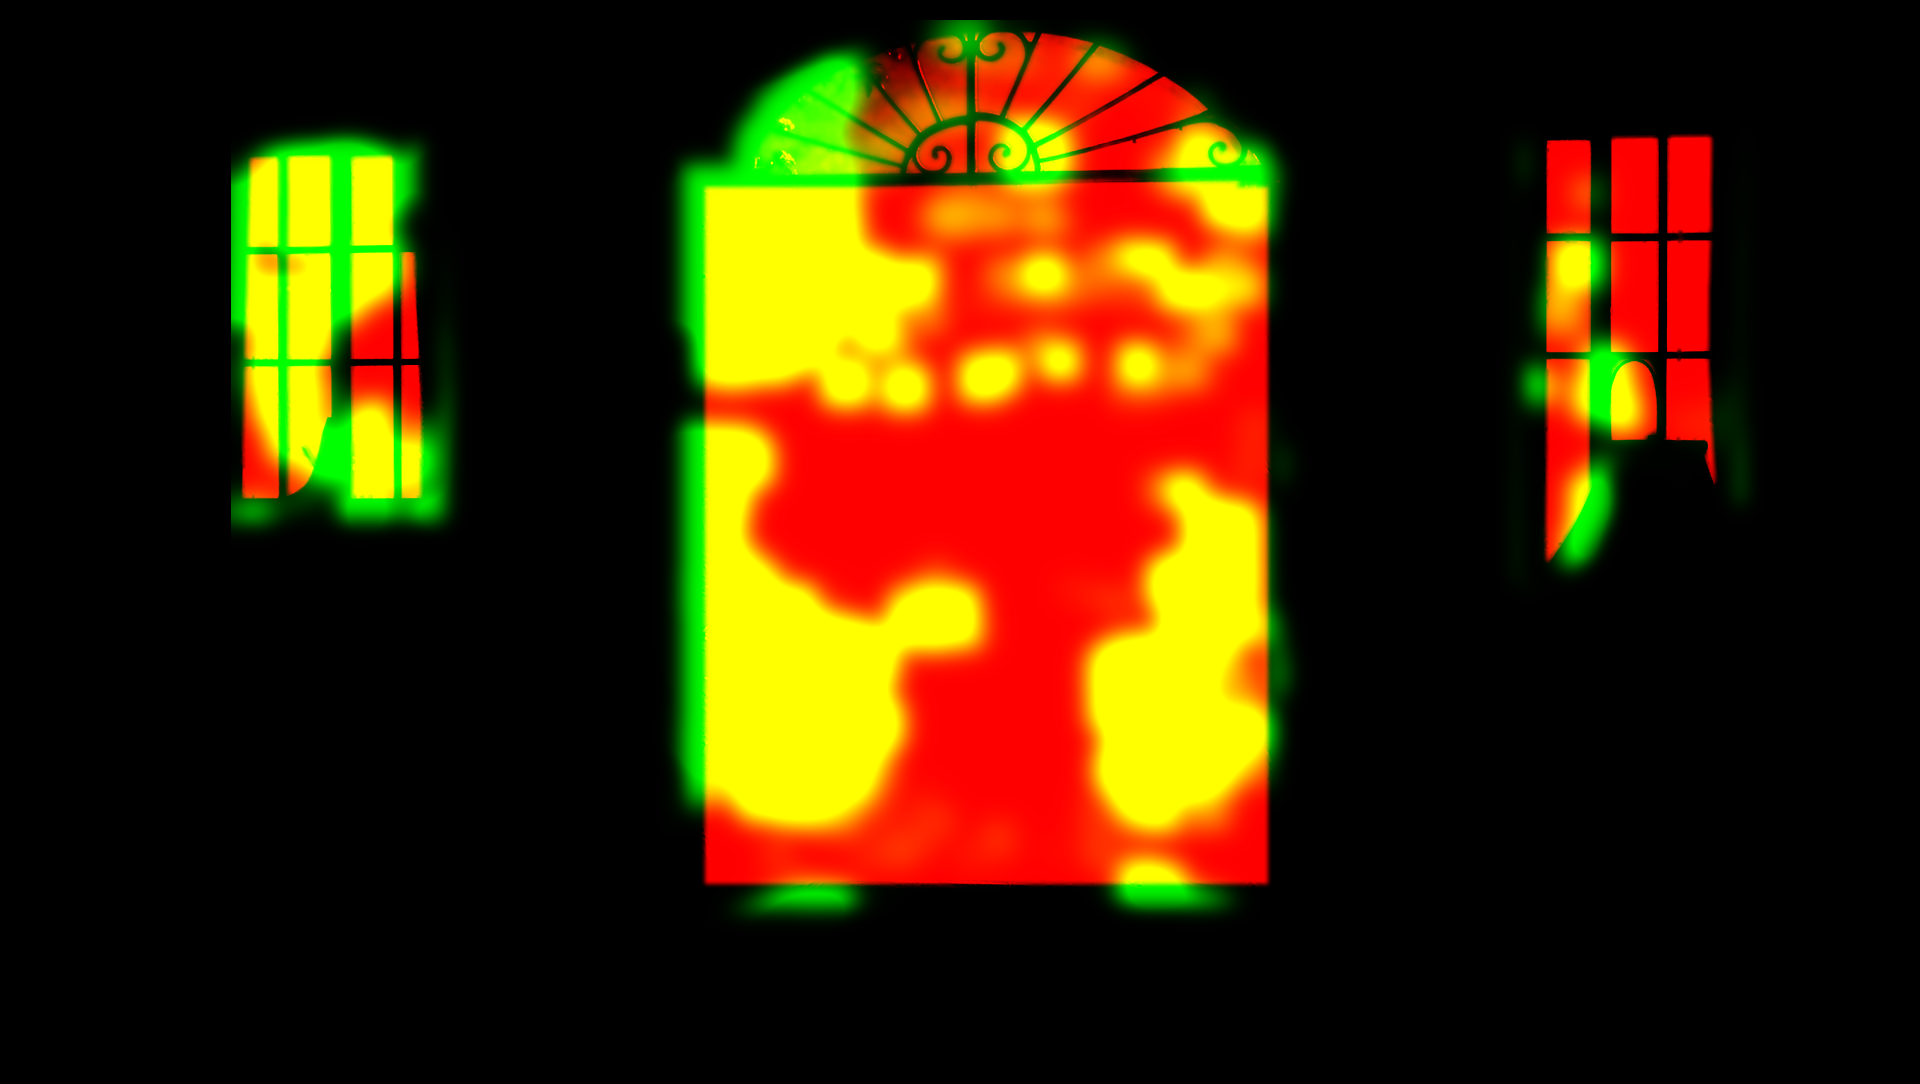
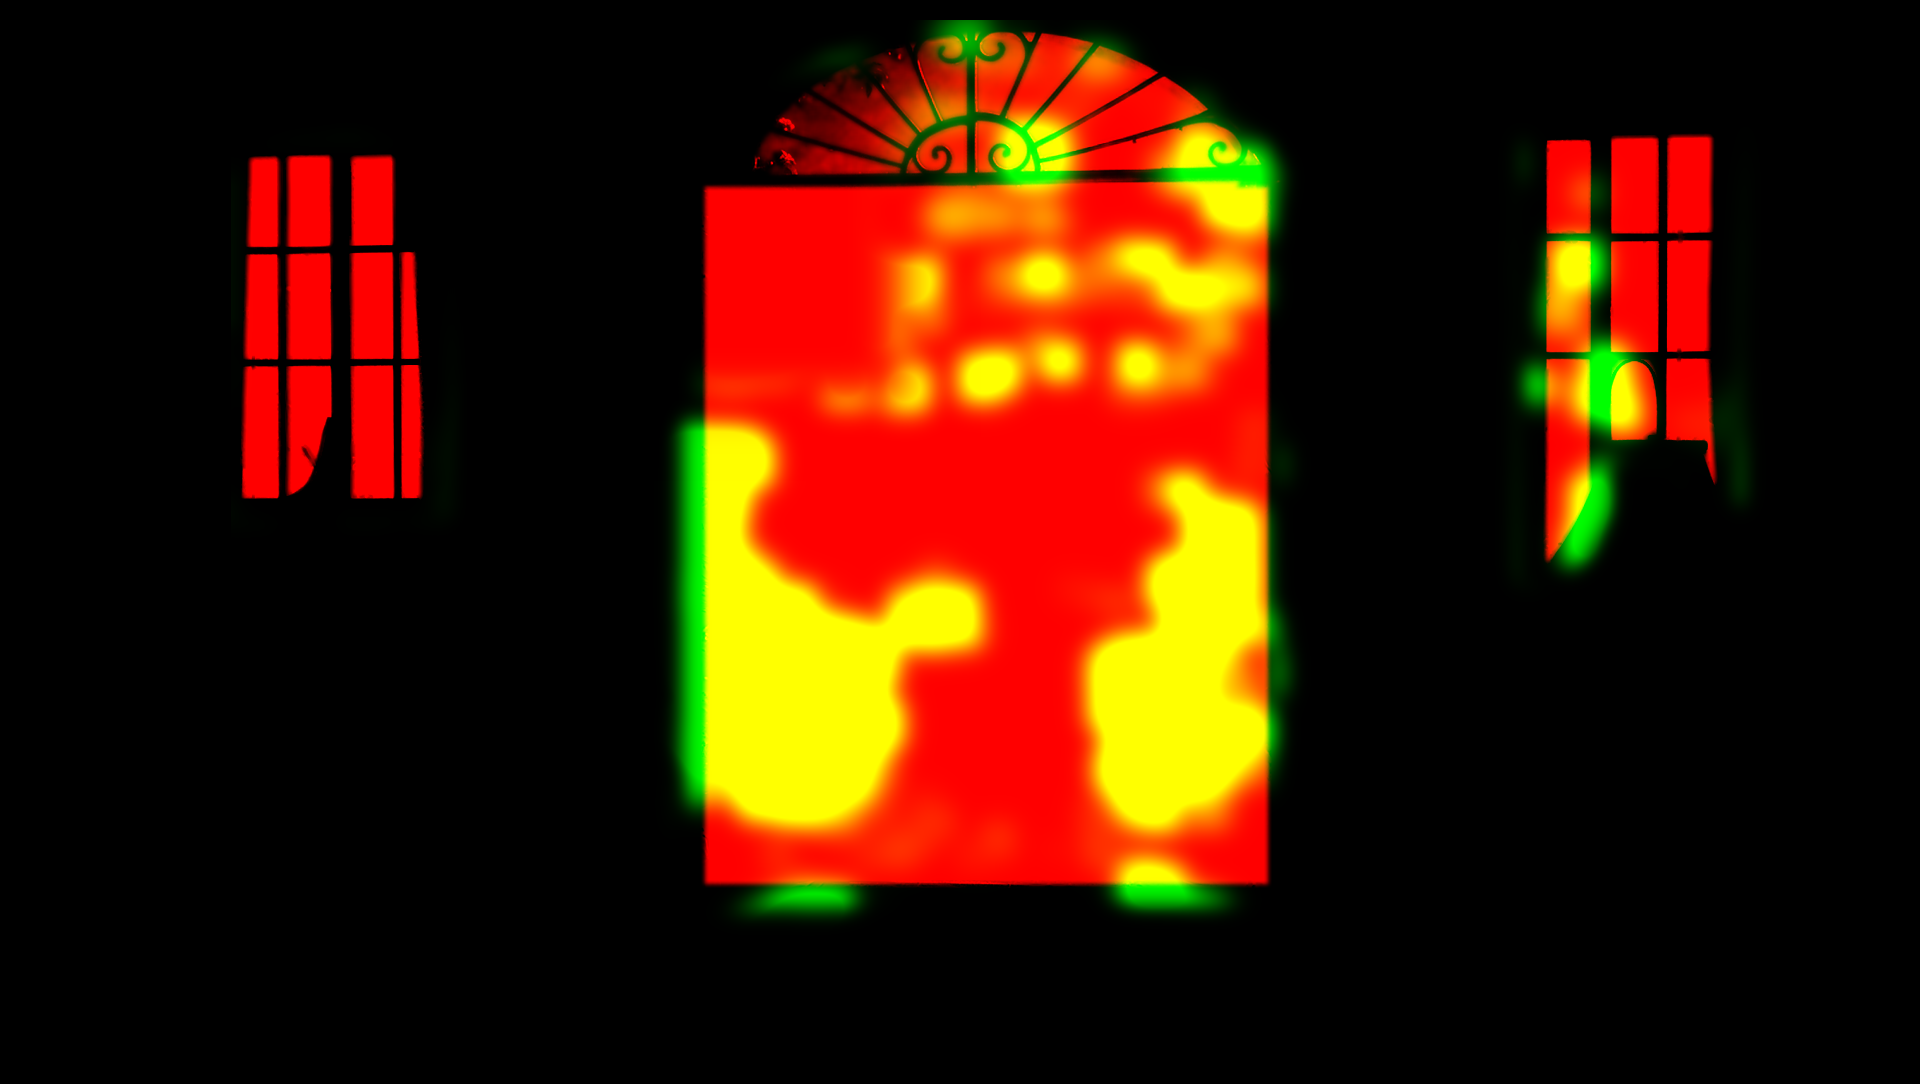
Latam: freeze top-left flowers (arch bougainvillea and left window) in video mask
Claude-Session: https://claude.ai/code/session_01WmePPEVtycNtDwciTC66yT

Changed region(s): [[0.3438, 0.0304, 0.5, 0.3958], [0.0938, 0.1218, 0.25, 0.4871]]

diff --git a/public/index.html b/public/index.html
@@ -455,7 +455,7 @@ function setVid(key){const V=VIDS[key];if(vidKey===key&&vidEl)return;if(vidEl){v
   const t=new THREE.VideoTexture(v);t.minFilter=THREE.LinearFilter;t.magFilter=THREE.LinearFilter;t.generateMipmaps=false;
   const b=V.box;U.uVidBox.value.set(b[0]/1920,1-b[3]/1084,b[2]/1920,1-b[1]/1084);U.tVid.value=t;vidEl=v;vidTex=t;window.__tnVid=v;
   v.addEventListener('playing',()=>{if(vidEl===v)U.uVidOn.value=1},{once:true});const go=()=>v.play().catch(()=>{});go();addEventListener('pointerdown',go,{once:true})}
-function texFor(key){if(!cache.has(key))cache.set(key,Promise.all(FILES.map(n=>loadTex(((LAB&&LAB[key])||key)+'/'+n+(/^(out_|mask|plate_|maps|cup_|shadow)/.test(n)?'?v=57':'')))).then(a=>Object.fromEntries(FILES.map((n,i)=>[n.split('.')[0],a[i]]))));return cache.get(key)}
+function texFor(key){if(!cache.has(key))cache.set(key,Promise.all(FILES.map(n=>loadTex(((LAB&&LAB[key])||key)+'/'+n+(/^(out_|mask|plate_|maps|cup_|shadow)/.test(n)?'?v=58':'')))).then(a=>Object.fromEntries(FILES.map((n,i)=>[n.split('.')[0],a[i]]))));return cache.get(key)}
 function evict(keep){for(const [k,p] of cache)if(!keep.includes(k)){cache.delete(k);p.then(T=>Object.values(T).forEach(t=>t.dispose()))}}
 const tvCan=document.createElement('canvas');tvCan.width=128;tvCan.height=96;const tvCtx=tvCan.getContext('2d');
 const tTV=new THREE.CanvasTexture(tvCan);tTV.minFilter=THREE.LinearFilter;tTV.generateMipmaps=false;

diff --git a/public/lab.html b/public/lab.html
@@ -456,7 +456,7 @@ function setVid(key){const V=VIDS[key];if(vidKey===key&&vidEl)return;if(vidEl){v
   const t=new THREE.VideoTexture(v);t.minFilter=THREE.LinearFilter;t.magFilter=THREE.LinearFilter;t.generateMipmaps=false;
   const b=V.box;U.uVidBox.value.set(b[0]/1920,1-b[3]/1084,b[2]/1920,1-b[1]/1084);U.tVid.value=t;vidEl=v;vidTex=t;window.__tnVid=v;
   v.addEventListener('playing',()=>{if(vidEl===v)U.uVidOn.value=1},{once:true});const go=()=>v.play().catch(()=>{});go();addEventListener('pointerdown',go,{once:true})}
-function texFor(key){if(!cache.has(key))cache.set(key,Promise.all(FILES.map(n=>loadTex(((LAB&&LAB[key])||key)+'/'+n+(/^(out_|mask|plate_|maps|cup_|shadow)/.test(n)?'?v=57':'')))).then(a=>Object.fromEntries(FILES.map((n,i)=>[n.split('.')[0],a[i]]))));return cache.get(key)}
+function texFor(key){if(!cache.has(key))cache.set(key,Promise.all(FILES.map(n=>loadTex(((LAB&&LAB[key])||key)+'/'+n+(/^(out_|mask|plate_|maps|cup_|shadow)/.test(n)?'?v=58':'')))).then(a=>Object.fromEntries(FILES.map((n,i)=>[n.split('.')[0],a[i]]))));return cache.get(key)}
 function evict(keep){for(const [k,p] of cache)if(!keep.includes(k)){cache.delete(k);p.then(T=>Object.values(T).forEach(t=>t.dispose()))}}
 const tvCan=document.createElement('canvas');tvCan.width=128;tvCan.height=96;const tvCtx=tvCan.getContext('2d');
 const tTV=new THREE.CanvasTexture(tvCan);tTV.minFilter=THREE.LinearFilter;tTV.generateMipmaps=false;
